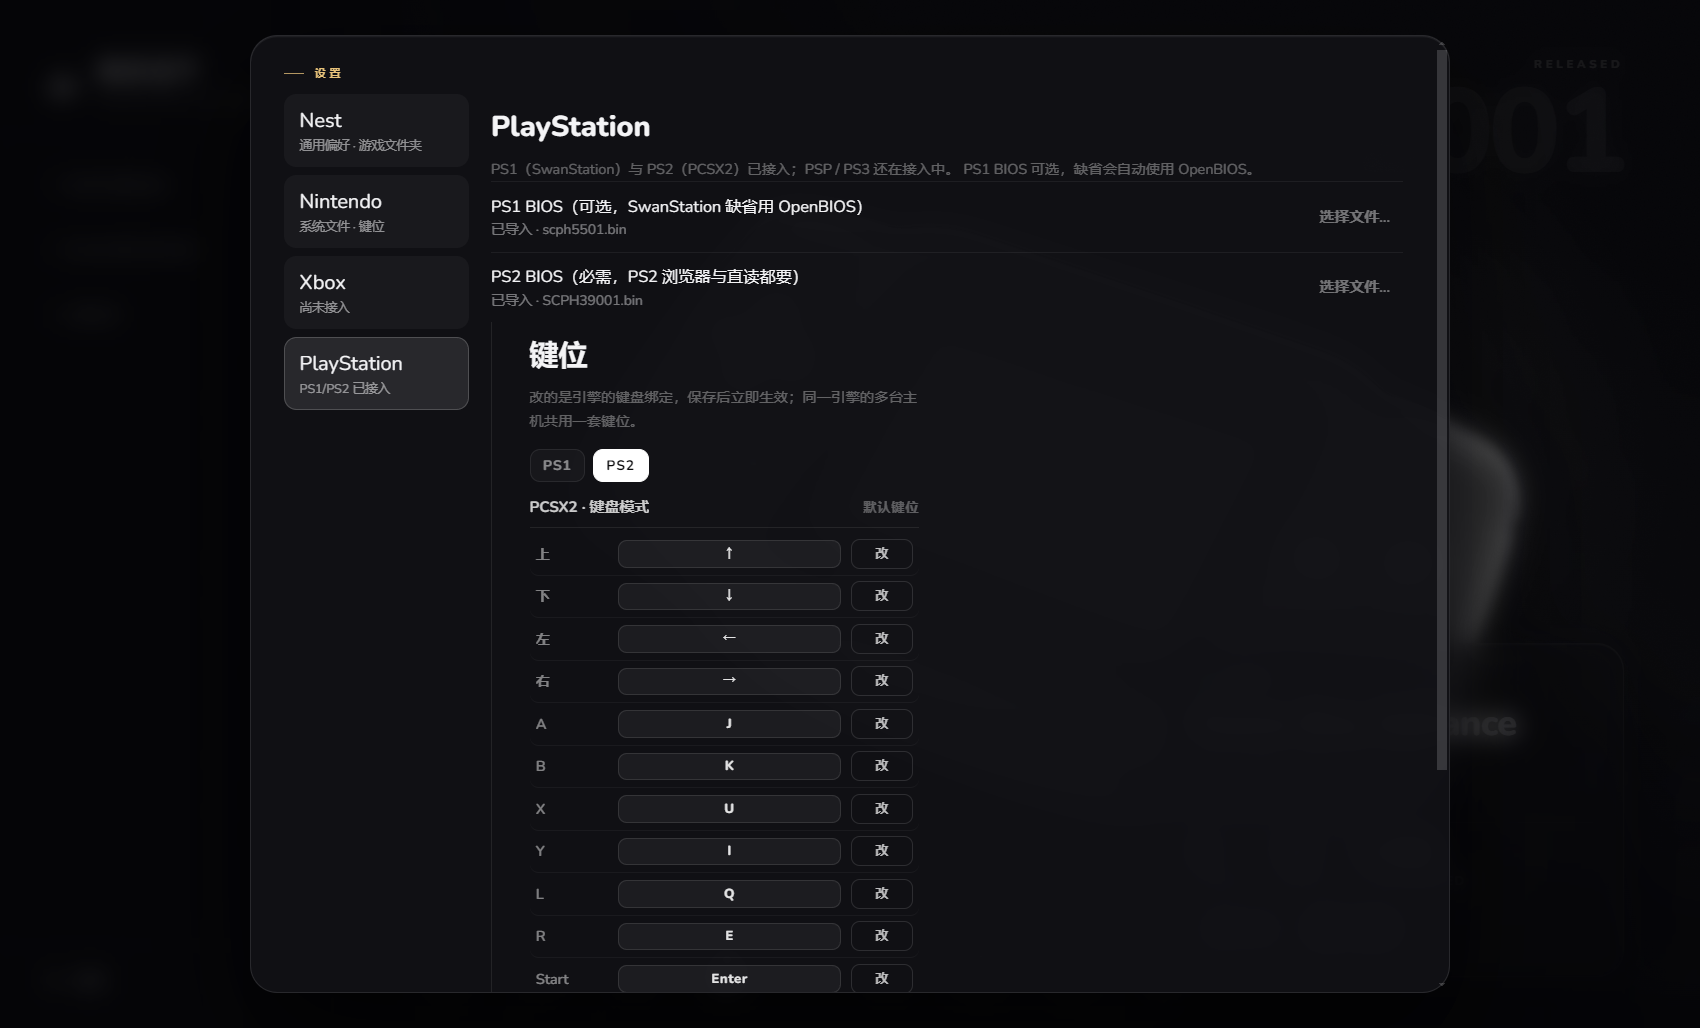
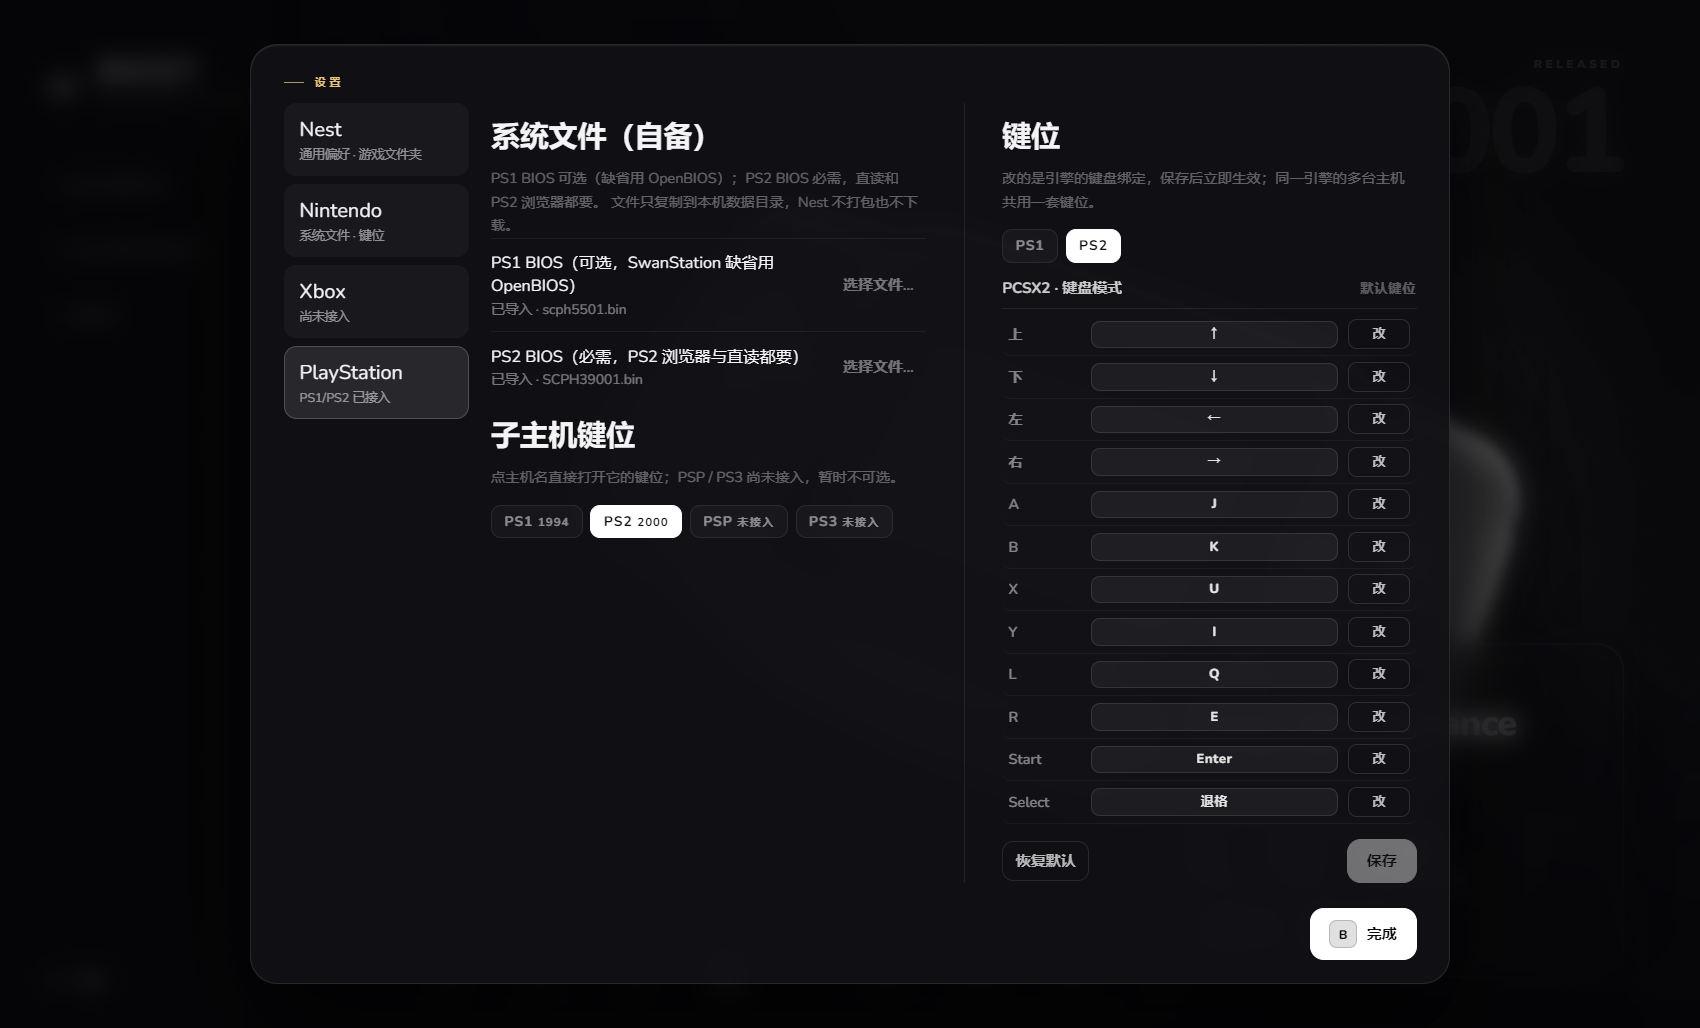
fix(settings): mirror Nintendo layout for PlayStation and wire sub-console key entries

diff --git a/src/renderer/src/App.tsx b/src/renderer/src/App.tsx
@@ -420,6 +420,21 @@ export default function App() {
     );
   }, [keyDrafts, keyEngine, keyView]);
 
+  useEffect(() => {
+    if (keySystemPinned.current) {
+      keySystemPinned.current = false;
+      return;
+    }
+    const isPlaystationEngine = (engine: string) => engine === 'swanstation' || engine === 'pcsx2';
+    if (settingsTab === 'playstation' && !isPlaystationEngine(keySystem.engine)) {
+      setKeySystemId('ps1');
+    } else if (settingsTab === 'nintendo' && isPlaystationEngine(keySystem.engine)) {
+      setKeySystemId('gba');
+    }
+  }, [settingsTab]);
+
+  const keySystemPinned = useRef(false);
+
   const openSettings = useCallback(() => {
     setSettingsOpen(true);
     refreshFirmware();
@@ -915,6 +930,7 @@ export default function App() {
   // Used by `--keysystem=<id>` screenshots: focus one console's key panel.
   (window as unknown as Record<string, unknown>).__NEST_KEY_SYSTEM__ = (id: string) => {
     if (KEY_SYSTEMS.some((system) => system.id === id)) {
+      keySystemPinned.current = true;
       setSettingsTab('playstation');
       setKeySystemId(id as SystemId);
     }
@@ -1634,42 +1650,61 @@ export default function App() {
                 </div>
 
               ) : settingsTab === 'playstation' ? (
-                <div className="settings-panel">
-                  <h2>PlayStation</h2>
-                  <p className="dlg-note">
-                    PS1（SwanStation）与 PS2（PCSX2）已接入；PSP / PS3 还在接入中。
-                    PS1 BIOS 可选，缺省会自动使用 OpenBIOS。
-                  </p>
-                  {firmware
-                    .filter((item) => item.kind === 'ps1-bios' || item.kind === 'ps2-bios')
-                    .map((item) => (
-                      <div className="fw-row" key={item.kind}>
-                        <span>
-                          {item.label}
-                          <small>
-                            {item.status === 'ok'
-                              ? '已导入'
-                              : item.status === 'invalid'
-                                ? '校验未通过'
-                                : '未导入'}
-                            {item.detail ? ` · ${item.detail}` : ''}
-                          </small>
-                        </span>
-                        <button className="ghost-btn" onClick={() => void importFirmware(item.kind)}>
-                          选择文件…
-                        </button>
-                      </div>
-                    ))}
-                  <div className="settings-cols keys-single">{renderKeys()}</div>
+                <div className="settings-cols">
+                  <div className="settings-col">
+                    <h2>系统文件（自备）</h2>
+                    <p className="dlg-note">
+                      PS1 BIOS 可选（缺省用 OpenBIOS）；PS2 BIOS 必需，直读和 PS2 浏览器都要。
+                      文件只复制到本机数据目录，Nest 不打包也不下载。
+                    </p>
 
-                  <div className="locked-systems">
-                    {(families.find((family) => family.id === 'playstation')?.systems ?? []).map((system) => (
-                      <span key={system.id}>
-                        {system.name}
-                        <small>{system.year}</small>
-                      </span>
-                    ))}
+                    {firmware
+                      .filter((item) => item.kind === 'ps1-bios' || item.kind === 'ps2-bios')
+                      .map((item) => (
+                        <div className="fw-row" key={item.kind}>
+                          <span>
+                            {item.label}
+                            <small>
+                              {item.status === 'ok'
+                                ? '已导入'
+                                : item.status === 'invalid'
+                                  ? '校验未通过'
+                                  : '未导入'}
+                              {item.detail ? ` · ${item.detail}` : ''}
+                            </small>
+                          </span>
+                          <button className="ghost-btn" onClick={() => void importFirmware(item.kind)}>
+                            选择文件…
+                          </button>
+                        </div>
+                      ))}
+
+                    <h2>子主机键位</h2>
+                    <p className="dlg-note">
+                      点主机名直接打开它的键位；PSP / PS3 尚未接入，暂时不可选。
+                    </p>
+                    <div className="key-engines" role="group" aria-label="选择 PlayStation 主机键位">
+                      {(families.find((family) => family.id === 'playstation')?.systems ?? []).map((system) => {
+                        const keyable = KEY_SYSTEMS.some((keySystem) => keySystem.id === system.id);
+                        return (
+                          <button
+                            key={system.id}
+                            className={`key-engine${system.id === keySystem.id ? ' on' : ''}`}
+                            disabled={!keyable}
+                            title={keyable ? `打开 ${system.name} 的键位` : `${system.name} 尚未接入`}
+                            onClick={() => {
+                              if (keyable) pickKeySystem(system.id);
+                            }}
+                          >
+                            {system.short ?? system.name}{' '}
+                            <small>{keyable ? system.year : '未接入'}</small>
+                          </button>
+                        );
+                      })}
+                    </div>
                   </div>
+
+                  {renderKeys()}
                 </div>
               ) : (
                 <div className="settings-panel">

diff --git a/docs/nintendo/CHANGELOG.md b/docs/nintendo/CHANGELOG.md
@@ -25,7 +25,7 @@
 - 主机墙：PlayStation 排到 Xbox 前面；所有家族默认折叠
 - **PS2 接入（PCSX2 2.8.2）**：内置 PCSX2（含 VC++ 运行库，避免旧运行库弹窗）；`-datapath` 隔离数据；PS2 BIOS 导入（4 MB 校验）；`-bios` 系统模式 = PS2 浏览器；扫描 `.iso`（PLAYSTATION 标记）
 - PS2 键位接入 Nest 面板（`PCSX2.ini` 的 `[Pad1]`，`Keyboard/` 绑定写入）
-- 键位面板补全：PlayStation 设置页现在有独立的键位面板（PS1 / PS2 芯片，按家族过滤），保存后启动即生效
+- 键位面板补全：PlayStation 设置页改成和 Nintendo 一致的双栏布局（左系统文件 / 右键位），芯片按家族过滤；底部子主机按钮直接进入对应键位（PSP/PS3 未接入置灰）
 - 无游戏时用带 PLAYSTATION 标记的假 ISO 验证了「扫描 → 启动 → 进程」链路
 
 ## 0.4.1-beta.1 — 2026-11-03 · NDS/DSi 整条线 + 设置拆分 + GBA 金手指
